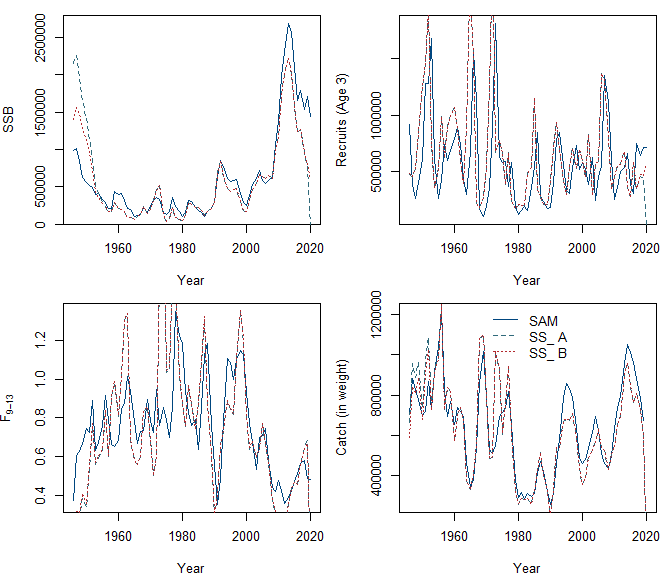
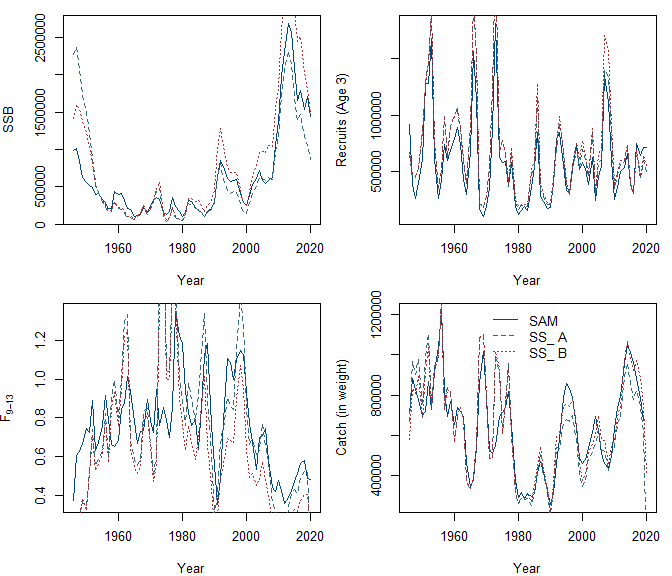
update README files after changing selectivity pattern to 20

diff --git a/NOBA_cod_files/README.MD b/NOBA_cod_files/README.MD
@@ -170,11 +170,11 @@ catchplot(sam_fit)
 
 ``` r
 # Set up two scenarios
-# Scenario A: use selectivity pattern 12 and F method 3 in SS
-# Scenario B: use selectivity pattern 12 and F method 2 in SS
+# Scenario A: use selectivity pattern 20 and F method 3 in SS
+# Scenario B: use selectivity pattern 20 and F method 2 in SS
 
 scenario_path <- c("A", "B")
-slx_pattern <- c(12, 12)
+slx_pattern <- c(20, 20)
 f_method <- c(3, 2)
 
 
@@ -217,7 +217,7 @@ for (scenario_id in seq_along(scenario_path)){
   ss_output[[scenario_id]] <- data.frame(
     "Year" = sam_output$Year,
     "SSB" = ss_output_data$timeseries$SpawnBio[ss_output_data$timeseries$Yr %in% sam_output$Year],
-    "Recruits" = ss_output_data$timeseries$Recruit_0[ss_output_data$timeseries$Yr %in% sam_output$Year],
+    "Recruits" = ss_output_data$timeseries$Recruit_0[ss_output_data$timeseries$Yr %in% (sam_output$Year-1)],
     "F" = ss_output_data$timeseries$`F:_1`[ss_output_data$timeseries$Yr %in% sam_output$Year],
     "Catch" = ss_output_data$timeseries$`sel(B):_1`[ss_output_data$timeseries$Yr %in% sam_output$Year]
   )
